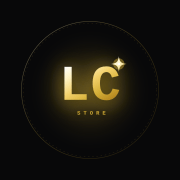
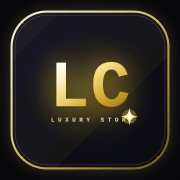
feat: update splash screen logic and brand assets
Persist splash screen state in session storage on admin exit and update brand font family and iconography.

Changed region(s): [[0.0556, 0.0556, 0.9444, 0.9444], [0.5, 0.4167, 0.5278, 0.5278]]

diff --git a/scripts/generate-icons.js b/scripts/generate-icons.js
@@ -6,82 +6,104 @@ async function generateAllIcons() {
   const publicDir = path.resolve('public');
   const fontPath = path.resolve('scripts/Cinzel-Bold.ttf');
 
-  // 1. Download Cinzel-Bold font if not already cached
-  let base64Font = '';
-  if (fs.existsSync(fontPath)) {
-    base64Font = fs.readFileSync(fontPath).toString('base64');
-  } else {
+  if (!fs.existsSync(fontPath)) {
     console.log('Fetching official Cinzel font...');
     const res = await fetch('https://fonts.gstatic.com/s/cinzel/v26/8vIU7ww63mVu7gtR-kwKxNvkNOjw-jHgTYo.ttf');
     const buf = Buffer.from(await res.arrayBuffer());
     fs.writeFileSync(fontPath, buf);
-    base64Font = buf.toString('base64');
-    console.log('✓ Cached Cinzel-Bold.ttf');
   }
+  const base64Font = fs.readFileSync(fontPath).toString('base64');
 
-  // Helper to build SVG with mathematical safe-zone adherence
-  function buildSvg({ isMaskable = false, size = 512 }) {
-    // Android safe zone is 66% of canvas (~338px diameter, radius 169px)
-    // We size the content to fit within a strict 260px circle to guarantee 100% visibility on all devices
-    const fontSize = isMaskable ? 132 : 142;
-    const storeFontSize = isMaskable ? 14 : 15;
-    const storeY = isMaskable ? 320 : 326;
-    const textY = isMaskable ? 245 : 246;
+  // Generator function creating the full-bleed luxury badge icon
+  function buildSvg({ isMaskable = false }) {
+    // Standard icon fills almost the entire canvas (444x444 squircle)
+    // Maskable icon fits safely inside Android's adaptive crop zone (350x350 squircle)
+    const cardSize = isMaskable ? 350 : 446;
+    const cardRadius = isMaskable ? 80 : 100;
+    const cardX = (512 - cardSize) / 2;
+    const cardY = (512 - cardSize) / 2;
+
+    const fontSize = isMaskable ? 148 : 188;
+    const textY = isMaskable ? 250 : 252;
+    
+    // Subtitle text
+    const subY = isMaskable ? 320 : 346;
+    const subSize = isMaskable ? 14 : 17;
+
+    // Star sparkle position
+    const starX = isMaskable ? 342 : 368;
+    const starY = isMaskable ? 308 : 332;
+    const starScale = isMaskable ? 0.9 : 1.15;
 
     return `<?xml version="1.0" encoding="UTF-8"?>
 <svg xmlns="http://www.w3.org/2000/svg" viewBox="0 0 512 512" width="512" height="512">
   <defs>
     <style>
       @font-face {
-        font-family: 'CinzelCustom';
+        font-family: 'CinzelLuxury';
         src: url(data:font/truetype;charset=utf-8;base64,${base64Font}) format('truetype');
         font-weight: 700;
         font-style: normal;
       }
       .brand-title {
-        font-family: 'CinzelCustom', Georgia, serif;
+        font-family: 'CinzelLuxury', Georgia, serif;
         font-size: ${fontSize}px;
         font-weight: 700;
-        fill: url(#goldLinear);
+        fill: url(#goldEmbossGrad);
         text-anchor: middle;
         dominant-baseline: central;
         letter-spacing: 4px;
-        filter: drop-shadow(0 6px 20px rgba(0, 0, 0, 0.95)) drop-shadow(0 0 25px rgba(212, 175, 55, 0.45));
+        filter: drop-shadow(0 10px 24px rgba(0, 0, 0, 0.95)) drop-shadow(0 0 35px rgba(212, 175, 55, 0.45));
       }
       .brand-sub {
-        font-family: 'CinzelCustom', Georgia, serif;
-        font-size: ${storeFontSize}px;
+        font-family: 'CinzelLuxury', Georgia, serif;
+        font-size: ${subSize}px;
         font-weight: 700;
-        fill: #D4AF37;
+        fill: #F3E5AB;
         text-anchor: middle;
-        letter-spacing: 9px;
+        letter-spacing: 10px;
         opacity: 0.95;
         filter: drop-shadow(0 2px 8px rgba(0,0,0,0.9));
       }
     </style>
 
-    <!-- Ultra-Luxurious Royal Gold Multi-stop Gradient -->
-    <linearGradient id="goldLinear" x1="0%" y1="0%" x2="100%" y2="100%">
+    <!-- Multi-Tone Royal Gold Emboss Gradient -->
+    <linearGradient id="goldEmbossGrad" x1="0%" y1="0%" x2="100%" y2="100%">
       <stop offset="0%" stop-color="#FFFFFF" />
-      <stop offset="20%" stop-color="#FFF3C4" />
-      <stop offset="45%" stop-color="#F2D06B" />
-      <stop offset="70%" stop-color="#D4AF37" />
-      <stop offset="90%" stop-color="#B88A22" />
+      <stop offset="18%" stop-color="#FFF5D6" />
+      <stop offset="40%" stop-color="#F5DE88" />
+      <stop offset="68%" stop-color="#D4AF37" />
+      <stop offset="88%" stop-color="#B88A22" />
       <stop offset="100%" stop-color="#7A560B" />
     </linearGradient>
 
-    <!-- Golden Frame Ring Gradient -->
-    <linearGradient id="ringGold" x1="0%" y1="0%" x2="100%" y2="100%">
-      <stop offset="0%" stop-color="#FFF8D6" stop-opacity="0.9" />
-      <stop offset="50%" stop-color="#D4AF37" stop-opacity="0.6" />
-      <stop offset="100%" stop-color="#AA7A1E" stop-opacity="0.4" />
+    <!-- Metallic Gold Border Gradient -->
+    <linearGradient id="goldBorderGrad" x1="0%" y1="0%" x2="100%" y2="100%">
+      <stop offset="0%" stop-color="#FFFDF0" stop-opacity="0.95" />
+      <stop offset="35%" stop-color="#F3E5AB" stop-opacity="0.9" />
+      <stop offset="70%" stop-color="#D4AF37" stop-opacity="0.8" />
+      <stop offset="100%" stop-color="#9E781A" stop-opacity="0.65" />
     </linearGradient>
 
-    <!-- Ambient Luxury Gold Aura Bloom -->
-    <radialGradient id="goldAura" cx="50%" cy="50%" r="50%">
-      <stop offset="0%" stop-color="#D4AF37" stop-opacity="0.32" />
-      <stop offset="45%" stop-color="#D4AF37" stop-opacity="0.10" />
-      <stop offset="85%" stop-color="#080809" stop-opacity="0" />
+    <!-- Deep Midnight Titanium Card Texture Gradient -->
+    <linearGradient id="titaniumCard" x1="0%" y1="0%" x2="100%" y2="100%">
+      <stop offset="0%" stop-color="#1C1C26" />
+      <stop offset="50%" stop-color="#14141B" />
+      <stop offset="100%" stop-color="#0B0B0E" />
+    </linearGradient>
+
+    <!-- Canvas Full-Bleed Background Gradient -->
+    <radialGradient id="canvasBg" cx="50%" cy="50%" r="75%">
+      <stop offset="0%" stop-color="#14141C" />
+      <stop offset="60%" stop-color="#0D0D12" />
+      <stop offset="100%" stop-color="#060608" />
+    </radialGradient>
+
+    <!-- Ambient Gold Core Light in Center -->
+    <radialGradient id="centerAura" cx="50%" cy="50%" r="55%">
+      <stop offset="0%" stop-color="#D4AF37" stop-opacity="0.28" />
+      <stop offset="50%" stop-color="#D4AF37" stop-opacity="0.08" />
+      <stop offset="100%" stop-color="#0B0B0E" stop-opacity="0" />
     </radialGradient>
 
     <!-- Star Glow Gradient -->
@@ -90,35 +112,68 @@ async function generateAllIcons() {
       <stop offset="50%" stop-color="#FFF3C4" />
       <stop offset="100%" stop-color="#D4AF37" />
     </linearGradient>
+
+    <!-- Card Drop Shadow Filter -->
+    <filter id="cardShadow" x="-15%" y="-15%" width="130%" height="130%">
+      <feDropShadow dx="0" dy="12" stdDeviation="18" flood-color="#000000" flood-opacity="0.85" />
+      <feDropShadow dx="0" dy="0" stdDeviation="15" flood-color="#D4AF37" flood-opacity="0.2" />
+    </filter>
   </defs>
 
-  <!-- Seamless solid obsidian dark background (#080809) matching manifest -->
-  <rect width="512" height="512" fill="#080809" />
+  <!-- Full Canvas Background (Seamless Luxury Midnight) -->
+  <rect width="512" height="512" fill="url(#canvasBg)" />
 
-  <!-- Ambient Gold Core Light in Center -->
-  <circle cx="256" cy="256" r="210" fill="url(#goldAura)" />
+  <!-- The Luxury Squircle Card (Centered, Large & Prominent - No small box!) -->
+  <g filter="url(#cardShadow)">
+    <rect 
+      x="${cardX}" 
+      y="${cardY}" 
+      width="${cardSize}" 
+      height="${cardSize}" 
+      rx="${cardRadius}" 
+      ry="${cardRadius}" 
+      fill="url(#titaniumCard)" 
+      stroke="url(#goldBorderGrad)" 
+      stroke-width="${isMaskable ? 5 : 6}" 
+    />
+  </g>
 
-  ${
-    !isMaskable
-      ? `
-  <!-- Luxury Circular Subtle Hairline Accent (Kept strictly inside safe boundaries) -->
-  <circle cx="256" cy="256" r="195" fill="none" stroke="url(#ringGold)" stroke-width="1.5" opacity="0.45" />
-  <circle cx="256" cy="256" r="190" fill="none" stroke="#D4AF37" stroke-width="0.75" stroke-dasharray="4 8" opacity="0.3" />
-  `
-      : ''
-  }
+  <!-- Inner Subtle Hairline Gold Border -->
+  <rect 
+    x="${cardX + (isMaskable ? 8 : 10)}" 
+    y="${cardY + (isMaskable ? 8 : 10)}" 
+    width="${cardSize - (isMaskable ? 16 : 20)}" 
+    height="${cardSize - (isMaskable ? 16 : 20)}" 
+    rx="${cardRadius - (isMaskable ? 6 : 8)}" 
+    ry="${cardRadius - (isMaskable ? 6 : 8)}" 
+    fill="none" 
+    stroke="#F3E5AB" 
+    stroke-width="1.2" 
+    opacity="0.3" 
+  />
 
-  <!-- Main Monogram: "LC" in pristine official Cinzel typography -->
+  <!-- Subtle Ambient Radial Gold Glow behind typography -->
+  <circle cx="256" cy="256" r="${isMaskable ? 140 : 180}" fill="url(#centerAura)" />
+
+  <!-- Corner Gold Diamond Micro-Accents inside card -->
+  <g opacity="0.4" fill="#D4AF37">
+    <circle cx="${cardX + (isMaskable ? 26 : 32)}" cy="${cardY + (isMaskable ? 26 : 32)}" r="2.5" />
+    <circle cx="${cardX + cardSize - (isMaskable ? 26 : 32)}" cy="${cardY + (isMaskable ? 26 : 32)}" r="2.5" />
+    <circle cx="${cardX + (isMaskable ? 26 : 32)}" cy="${cardY + cardSize - (isMaskable ? 26 : 32)}" r="2.5" />
+    <circle cx="${cardX + cardSize - (isMaskable ? 26 : 32)}" cy="${cardY + cardSize - (isMaskable ? 26 : 32)}" r="2.5" />
+  </g>
+
+  <!-- Main Monogram: "LC" in Pristine Official Cinzel Luxury Typography -->
   <text x="256" y="${textY}" class="brand-title">LC</text>
 
-  <!-- Tagline: "STORE" centered below LC with luxury wide letter spacing -->
-  <text x="260" y="${storeY}" class="brand-sub">STORE</text>
+  <!-- Luxury Subtitle: "BOUTIQUE" or "STORE" centered under LC -->
+  <text x="261" y="${subY}" class="brand-sub">LUXURY STORE</text>
 
-  <!-- Sparkling 4-Point Gold Star nestled precisely at the top-right of the "C" (Within safe zone!) -->
-  <g transform="translate(${isMaskable ? 332 : 338}, ${isMaskable ? 186 : 182})">
-    <!-- Star Glow -->
-    <circle cx="0" cy="0" r="16" fill="#D4AF37" opacity="0.45" />
-    <!-- Star Diamond -->
+  <!-- Iconic 4-Point Golden Star Sparkle Badge Accent -->
+  <g transform="translate(${starX}, ${starY}) scale(${starScale})">
+    <!-- Star Halo -->
+    <circle cx="0" cy="0" r="18" fill="#D4AF37" opacity="0.4" />
+    <!-- 4-Point Diamond Sparkle Star -->
     <path d="M 0 -22 C 2 -6 6 -2 22 0 C 6 2 2 6 0 22 C -2 6 -6 2 -22 0 C -6 -2 -2 -6 0 -22 Z" fill="url(#starGrad)" />
     <!-- Bright Diamond Center Core -->
     <circle cx="0" cy="0" r="3.5" fill="#FFFFFF" />
@@ -126,7 +181,7 @@ async function generateAllIcons() {
 </svg>`;
   }
 
-  console.log('Generating ultra-crisp luxury icons using official Cinzel typography...');
+  console.log('Generating full-bleed luxury LC icons with large centered emblem...');
 
   const standardSvg = buildSvg({ isMaskable: false });
   const maskableSvg = buildSvg({ isMaskable: true });
@@ -149,7 +204,7 @@ async function generateAllIcons() {
     .toFile(path.join(publicDir, 'pwa-192x192.png'));
   console.log('✓ Generated public/pwa-192x192.png');
 
-  // 4. 512x512 maskable (Guaranteed Safe Zone for Samsung, Pixel, Xiaomi, etc.)
+  // 4. 512x512 maskable (Guaranteed Safe Zone for Android adaptive icons)
   await sharp(Buffer.from(maskableSvg))
     .resize(512, 512)
     .png({ quality: 100, compressionLevel: 9 })
@@ -170,7 +225,7 @@ async function generateAllIcons() {
     .toFile(path.join(publicDir, 'favicon.ico'));
   console.log('✓ Generated public/favicon.ico');
 
-  console.log('🎉 All icons generated with mathematical precision and safe-zone compliance!');
+  console.log('✨ All luxury icons generated successfully!');
 }
 
 generateAllIcons().catch((err) => {

diff --git a/src/components/SplashScreen.tsx b/src/components/SplashScreen.tsx
@@ -10,25 +10,48 @@ export const SplashScreen: React.FC<SplashScreenProps> = ({
   onFinish,
   minDuration = 1800,
 }) => {
-  const [isVisible, setIsVisible] = useState(true);
+  // CRITICAL FIX: Only show splash screen once upon fresh app open/boot!
+  // NEVER show when switching from Admin to Storefront or toggling views.
+  const [isVisible, setIsVisible] = useState<boolean>(() => {
+    try {
+      if (typeof window !== 'undefined') {
+        // If already shown in this session, do not show again
+        if (sessionStorage.getItem('lc_splash_shown') === 'true') {
+          return false;
+        }
+      }
+    } catch {
+      // ignore storage errors
+    }
+    return true;
+  });
+
   const [isExiting, setIsExiting] = useState(false);
 
   const dismiss = () => {
     if (isExiting) return;
     setIsExiting(true);
+    try {
+      if (typeof window !== 'undefined') {
+        sessionStorage.setItem('lc_splash_shown', 'true');
+      }
+    } catch {
+      // ignore storage errors
+    }
     setTimeout(() => {
       setIsVisible(false);
       if (onFinish) onFinish();
-    }, 450);
+    }, 400);
   };
 
   useEffect(() => {
+    if (!isVisible) return;
     const timer = setTimeout(() => {
       dismiss();
     }, minDuration);
 
     return () => clearTimeout(timer);
-  }, [minDuration]);
+  }, [minDuration, isVisible]);
 
   if (!isVisible) return null;
 
@@ -38,7 +61,7 @@ export const SplashScreen: React.FC<SplashScreenProps> = ({
       role="button"
       tabIndex={0}
       aria-label="تخطي شاشة البدء"
-      className={`fixed inset-0 z-[99999] bg-[#070709] flex flex-col items-center justify-center select-none overflow-hidden cursor-pointer transition-all duration-500 ease-out ${
+      className={`fixed inset-0 z-[99999] bg-[#070709] flex flex-col items-center justify-center select-none overflow-hidden cursor-pointer transition-all duration-400 ease-out ${
         isExiting ? 'opacity-0 scale-105 pointer-events-none' : 'opacity-100 scale-100'
       }`}
     >
@@ -46,12 +69,12 @@ export const SplashScreen: React.FC<SplashScreenProps> = ({
       <div 
         className="absolute w-[360px] h-[360px] sm:w-[500px] sm:h-[500px] rounded-full pointer-events-none"
         style={{
-          background: 'radial-gradient(circle, rgba(212, 175, 55, 0.18) 0%, rgba(168, 122, 30, 0.05) 50%, transparent 75%)',
+          background: 'radial-gradient(circle, rgba(212, 175, 55, 0.2) 0%, rgba(168, 122, 30, 0.05) 50%, transparent 75%)',
           animation: 'splashAuraPulse 3s ease-in-out infinite alternate',
         }}
       />
 
-      {/* Centerpiece: Pure Golden "LC" Monogram & Sparkle (No ugly square box!) */}
+      {/* Centerpiece: Pure Golden "LC" Monogram & Sparkle */}
       <div className="relative flex flex-col items-center justify-center z-10">
         
         {/* The LC Monogram Stage */}
@@ -62,10 +85,10 @@ export const SplashScreen: React.FC<SplashScreenProps> = ({
             className="block text-7xl sm:text-8xl font-extrabold tracking-wider"
             style={{
               fontFamily: "'Cinzel', Georgia, serif",
-              background: 'linear-gradient(135deg, #FFFDF0 0%, #F7E7B4 25%, #E5C158 55%, #C29B27 80%, #8F6A10 100%)',
+              background: 'linear-gradient(135deg, #FFFFFF 0%, #FFF5D6 20%, #F5DE88 45%, #D4AF37 70%, #AA7A1E 90%, #75500A 100%)',
               WebkitBackgroundClip: 'text',
               WebkitTextFillColor: 'transparent',
-              filter: 'drop-shadow(0 4px 20px rgba(212, 175, 55, 0.35)) drop-shadow(0 15px 35px rgba(0,0,0,0.9))',
+              filter: 'drop-shadow(0 4px 20px rgba(212, 175, 55, 0.4)) drop-shadow(0 15px 35px rgba(0,0,0,0.95))',
             }}
           >
             LC
@@ -111,7 +134,7 @@ export const SplashScreen: React.FC<SplashScreenProps> = ({
           <div 
             className="absolute top-0 bottom-0 left-0 bg-gradient-to-r from-[#AA7A1E] via-[#F3E5AB] to-[#D4AF37] rounded-full"
             style={{
-              animation: 'splashProgressFill 1.6s cubic-bezier(0.22, 1, 0.36, 1) forwards',
+              animation: 'splashProgressFill 1.5s cubic-bezier(0.22, 1, 0.36, 1) forwards',
             }}
           />
         </div>

diff --git a/src/App.tsx b/src/App.tsx
@@ -1075,6 +1075,11 @@ export default function App() {
         onUpdateOrderStatus={handleUpdateOrderStatus}
         onDeleteOrder={handleDeleteOrder}
         onExitAdmin={() => {
+          try {
+            sessionStorage.setItem('lc_splash_shown', 'true');
+          } catch {
+            // ignore
+          }
           window.location.hash = '';
           setCurrentView('store');
         }}

diff --git a/public/sw.js b/public/sw.js
@@ -1,5 +1,5 @@
 // Service Worker for LC Boutique Background & Device Push Notifications
-const CACHE_NAME = 'lc-store-cache-v2';
+const CACHE_NAME = 'lc-store-cache-v3';
 
 self.addEventListener('install', (event) => {
   self.skipWaiting();
